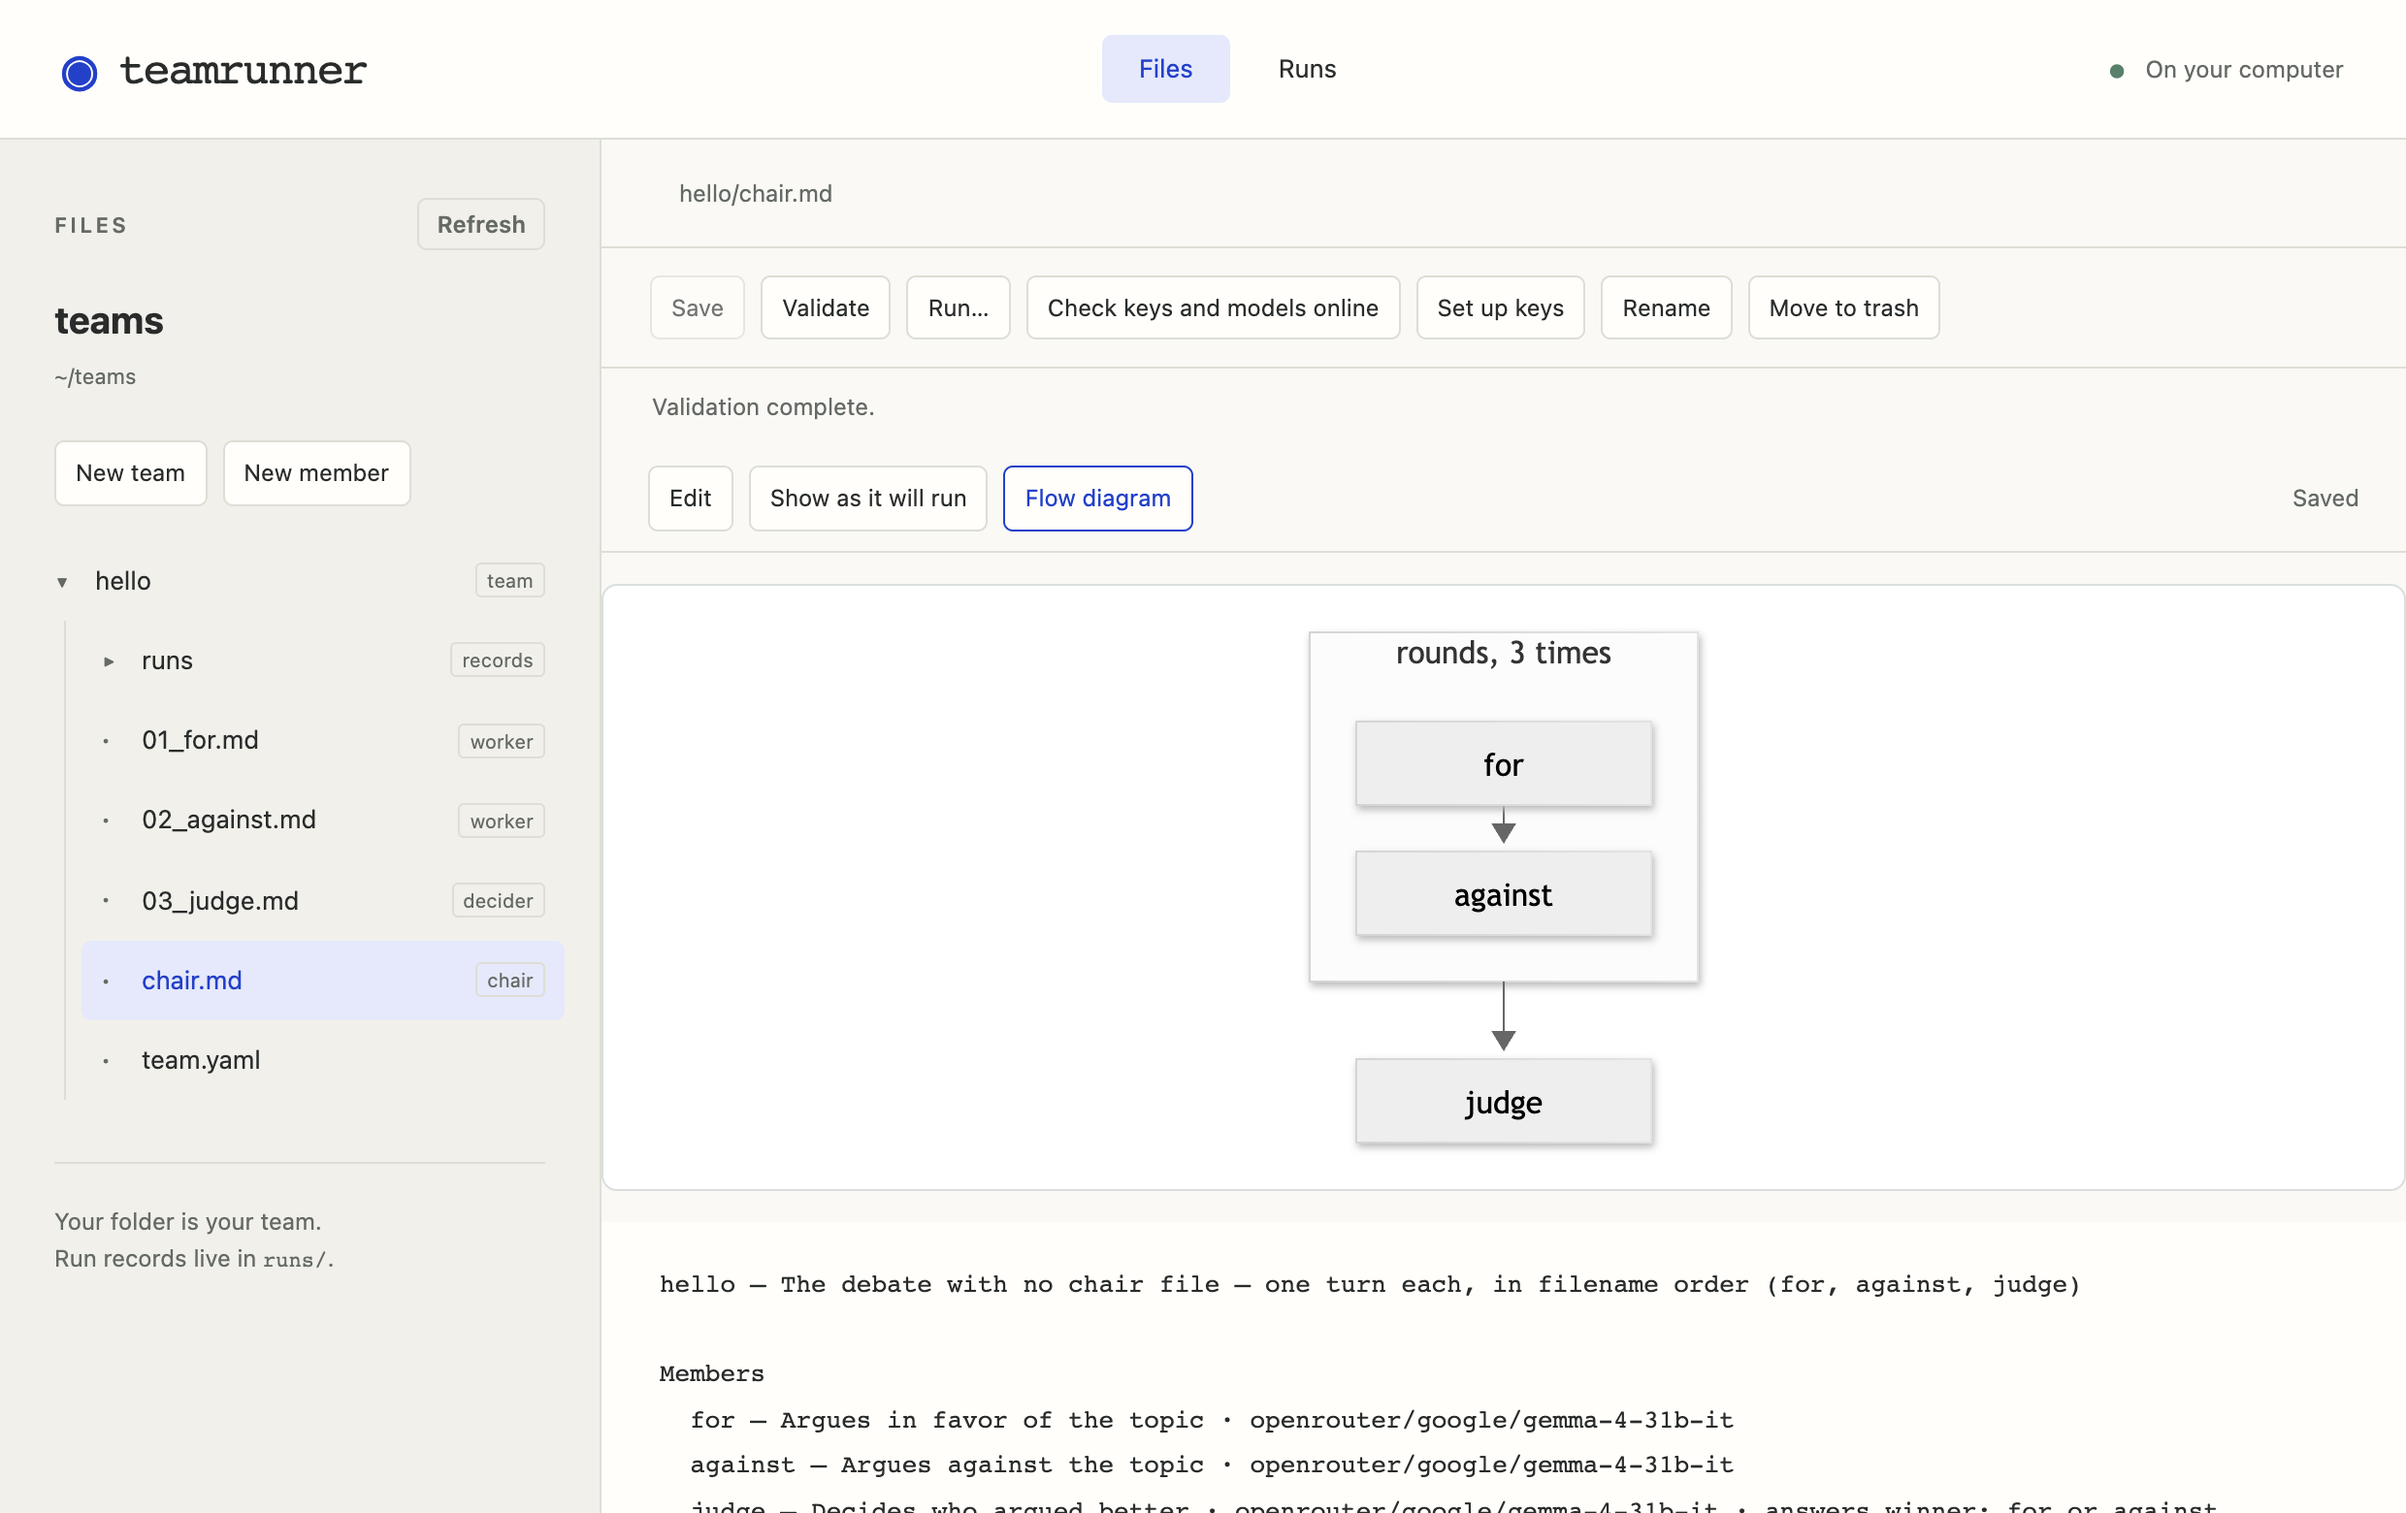
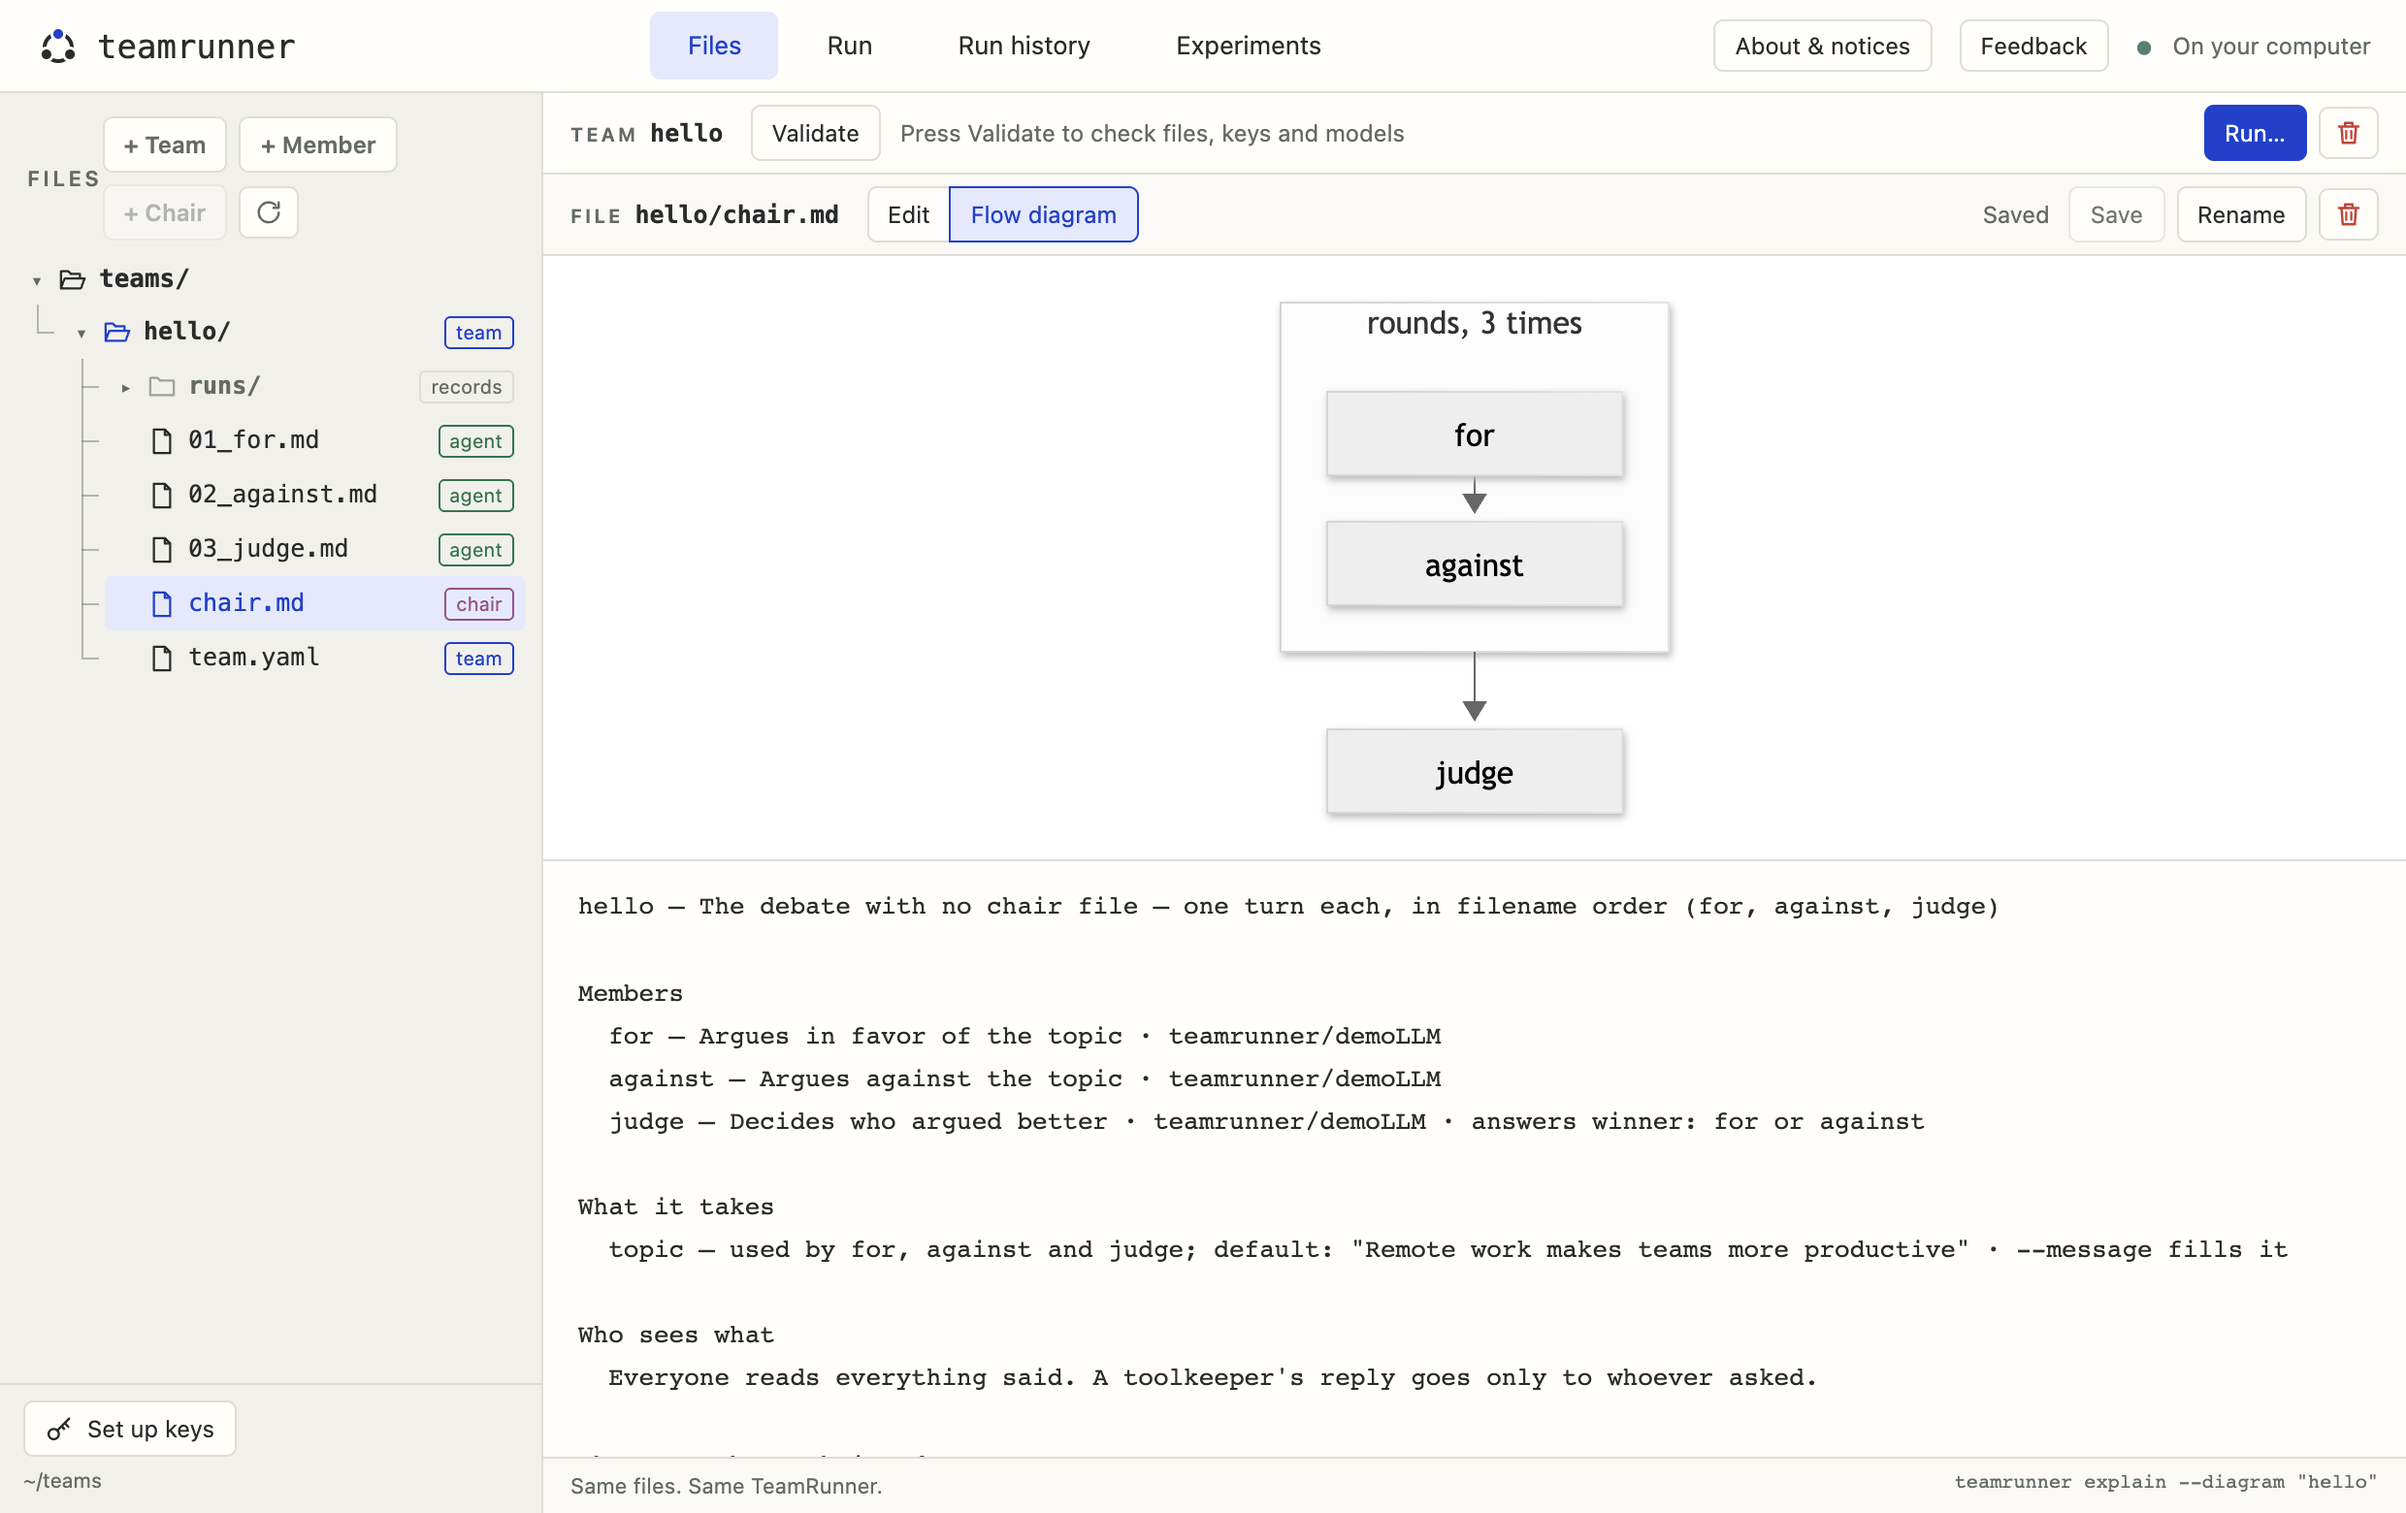
Review W3: screenshots retaken on 0.0.6, and one of the Experiments tab
tests/screenshots.py retook ui-home, ui-conversation, ui-compare and
ui-flow with teamrunner 0.0.6 from PyPI: "+ Team", "Run history",
record.json and the four tabs, instead of 0.0.4's page. It now also
rehearses a small experiment on the tutorial's hello team, after the
tutorial's shots so they show only the tutorial's files, and saves
ui-experiment.png: the Experiments tab's grid of conditions by
replicates. The homepage's experiment section shows it.

diff --git a/index.html b/index.html
@@ -179,6 +179,7 @@ A real run is the same team on a real model. Watch one we recorded.</pre>
           </div>
         </div>
       </div>
+      <figure class="shot"><img src="img/ui-experiment.png" alt="The Experiments tab of TeamRunner's page: an experiment called rounds-or-not, its question, and a grid of its two conditions by three replicates, each rehearsed." width="1240" height="780" loading="lazy"><figcaption>Write the versions you compare in one <code>experiment.md</code>, and the <b>Experiments</b> tab runs each one many times, side by side. Here a rehearsal: placeholder words, at no cost.</figcaption></figure>
     </div>
   </section>
 

diff --git a/tests/screenshots.py b/tests/screenshots.py
@@ -7,6 +7,7 @@ model), opens it in `teamrunner ui`, and saves four PNGs in img/:
     ui-conversation.png  a rehearsal's conversation (step 1)
     ui-compare.png       two runs compared, one member changed (step 3)
     ui-flow.png          the flow diagram of chair.md (step 4)
+    ui-experiment.png    a rehearsed experiment on hello, in the Experiments tab (the homepage)
 
 Uses the installed `teamrunner` and Google Chrome through Playwright:
 
@@ -75,14 +76,27 @@ def main() -> int:
                     url = m.group(0); break
             if not url:
                 print("teamrunner ui printed no address"); return 1
-            shoot(url)
+            shoot(url, lambda: experiment(work, env))
         finally:
             server.terminate(); server.wait(timeout=10)
     print("saved", ", ".join(sorted(p.name for p in IMG.glob("ui-*.png"))))
     return 0
 
 
-def shoot(url: str) -> None:
+def experiment(work: Path, env: dict) -> None:
+    """A small experiment on hello, rehearsed: made only after the tutorial's shots, so they
+    show the tutorial's files and nothing else."""
+    study = work / "rounds_or_not"
+    study.mkdir()
+    (study / "experiment.md").write_text(
+        "---\nname: rounds-or-not\nconditions:\n  rounds: ../hello\n  one_turn_each:\n"
+        "    from: ../hello\n    change: {chair: remove}\nreplications: 3\nseed: 7\n"
+        "metrics:\n  - judge.output.winner\n---\n\n## Question\n\n"
+        "Does arguing in rounds change who wins?\n", encoding="utf-8")
+    tr(work, env, "experiment", "./rounds_or_not", "--rehearse")
+
+
+def shoot(url: str, make_experiment) -> None:
     with sync_playwright() as p:
         browser = p.chromium.launch(channel="chrome")
         page = browser.new_page(viewport={"width": 1240, "height": 780}, device_scale_factor=2,
@@ -130,6 +144,18 @@ def shoot(url: str) -> None:
         page.wait_for_timeout(200)
         page.evaluate(tidy)
         page.screenshot(path=IMG / "ui-compare.png")
+
+        make_experiment()
+        page.locator("#experiments-view").click()
+        page.locator("#refresh-experiments").click()
+        page.locator("#experiments-list tr").first.wait_for()
+        page.locator("#experiments-list tr").first.locator("button, a").first.click()
+        page.locator("#exp-runs-tab").click()
+        page.get_by_role("button", name=re.compile(r"^Rehearsals")).click()  # a rehearsal fills the grid at no cost
+        page.locator("#experiment-body .exp-grid").wait_for()
+        page.wait_for_timeout(400)
+        page.evaluate(tidy)
+        page.screenshot(path=IMG / "ui-experiment.png")
         browser.close()
 
 
